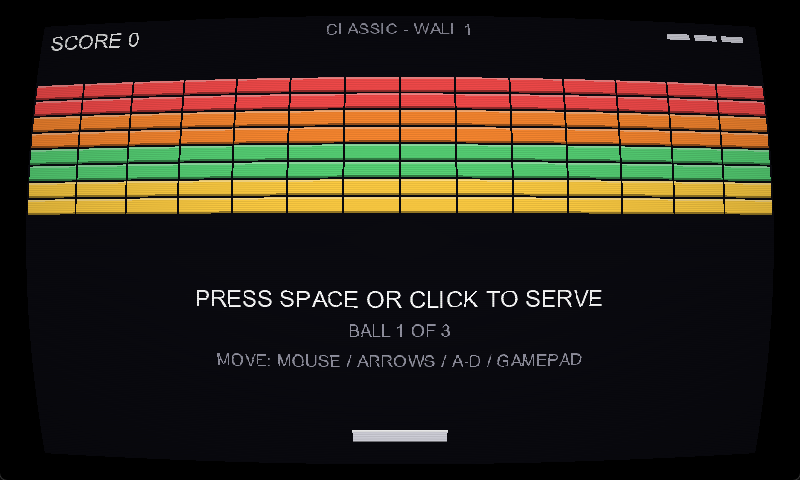
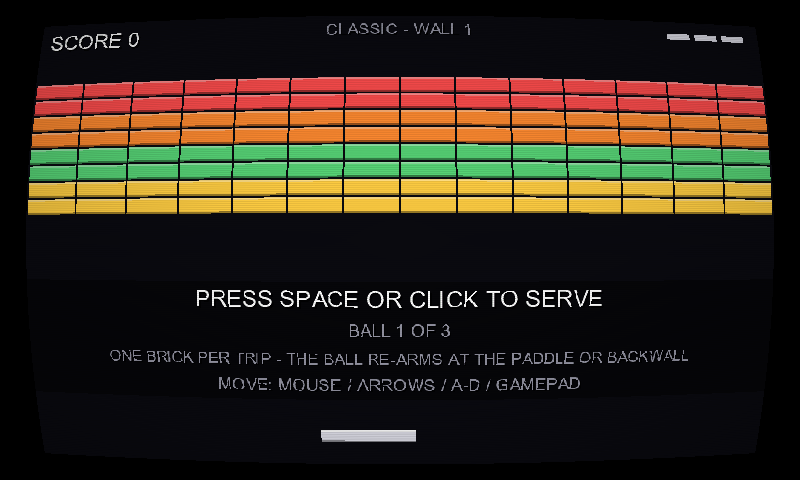
Screenshot rig: regenerate the doc images from the real game
dotnet run -- --screenshot <mode> <out.png> boots the requested mode,
waits three seconds for the entrance animation to settle, saves the
back buffer (CRT pass and all) as a PNG and exits. The README and
study-guide screenshots must track the real game, and the legibility
pass had made two of them stale - a doc image nobody can regenerate is
a doc fact nobody can check.

classic-1976.png and super-cavity.png now show the serve screens with
their rule cards and prompt strip; title.png picks up the text shadows.
The rig skips the focus-loss auto-pause (a CLI-launched window may
never focus) and is the only thing that parses argv.

Changed region(s): [[0.125, 0.7188, 0.8438, 0.8125], [0.5, 0.875, 0.5625, 0.9375], [0.4062, 0.875, 0.4375, 0.9375]]

diff --git a/docs/index.html b/docs/index.html
@@ -1197,7 +1197,8 @@ public void SpeedLevel_FollowsTheManualThresholds(
     │   ├── AudioBank.cs        <i>synthesized square-wave PCM, pitch-varied playback</i>
     │   ├── MusicPlayer.cs      <i>synthesized chip-tune loop on a SoundEffectInstance</i>
     │   ├── SpriteBatchExtensions.cs <i>1×1 pixel DrawRect + drop-shadowed text</i>
-    │   └── DebugOverlay.cs     <i>F3: fps, ball count + top speed, live counts</i>
+    │   ├── DebugOverlay.cs     <i>F3: fps, ball count + top speed, live counts</i>
+    │   └── ScreenshotRig.cs    <i>--screenshot CLI: capture one settled frame, exit</i>
     └── States/
         ├── GameState.cs        <i>abstract base: Enter/Update/Draw/FreezesEffects/CapturesAllInput</i>
         ├── GameStateManager.cs <i>current-state holder, resume, mode-aware new game, replay record/play</i>

diff --git a/Source/Systems/ScreenshotRig.cs b/Source/Systems/ScreenshotRig.cs
@@ -1,0 +1,94 @@
+using System;
+using System.IO;
+using Microsoft.Xna.Framework;
+using Microsoft.Xna.Framework.Graphics;
+
+namespace Breakout.Systems;
+
+/// <summary>
+/// Screenshot automation: `dotnet run -- --screenshot classic out.png` boots
+/// the game, starts the named mode, waits for the entrance animation to
+/// settle, saves one frame as a PNG and exits. It exists because the README
+/// and study-guide screenshots must track the real game — a doc image nobody
+/// can regenerate is a doc fact nobody can check. The capture happens at the
+/// very end of the pipeline (the back buffer, after the CRT pass), so the
+/// file shows exactly what a player sees. MonoGame has no "save screenshot"
+/// call; the idiom is GetBackBufferData into a Color[], SetData onto a
+/// throwaway Texture2D, and Texture2D.SaveAsPng — the read-back mirror of
+/// the 1x1-pixel trick.
+/// </summary>
+public sealed class ScreenshotRig
+{
+    // Three seconds at 60 Hz: enough for the brick drop-in (0.5 s plus its
+    // stagger) to land and the title's placeholder session to go quiet.
+    private const int SettleTicks = 180;
+
+    private readonly string _modeName;
+    private int _ticks;
+
+    public string OutputPath { get; }
+
+    /// <summary>True once the settle time has passed — the shell captures at
+    /// the end of its next Draw.</summary>
+    public bool CaptureDue { get; private set; }
+
+    private ScreenshotRig(string modeName, string outputPath)
+    {
+        _modeName = modeName;
+        OutputPath = outputPath;
+    }
+
+    /// <summary>Null when the args don't ask for a screenshot — the normal
+    /// game run. Program.cs calls this; nothing else parses argv.</summary>
+    public static ScreenshotRig TryParse(string[] args)
+    {
+        int flag = Array.IndexOf(args, "--screenshot");
+        if (flag < 0)
+            return null;
+        if (args.Length < flag + 3) // needs <mode> and <out.png> after the flag
+            throw new ArgumentException(
+                "usage: --screenshot <title|modern|coop|classic|double|cavity|progressive> <out.png>");
+        return new ScreenshotRig(args[flag + 1], args[flag + 2]);
+    }
+
+    /// <summary>The mode to boot into; null means stay on the title screen.</summary>
+    public GameMode? Mode => _modeName switch
+    {
+        "title" => null,
+        "modern" => GameMode.Modern,
+        "coop" => GameMode.Coop,
+        "classic" => GameMode.Classic,
+        "double" => GameMode.SuperDouble,
+        "cavity" => GameMode.SuperCavity,
+        "progressive" => GameMode.SuperProgressive,
+        _ => throw new ArgumentException($"unknown screenshot mode '{_modeName}'"),
+    };
+
+    /// <summary>Called once per Update tick.</summary>
+    public void Tick()
+    {
+        if (++_ticks >= SettleTicks)
+            CaptureDue = true;
+    }
+
+    /// <summary>Save the current back buffer and stop asking for captures.
+    /// Called after Present, so the CRT pass is in the pixels.</summary>
+    public void Capture(GraphicsDevice device)
+    {
+        CaptureDue = false;
+
+        int width = device.PresentationParameters.BackBufferWidth;
+        int height = device.PresentationParameters.BackBufferHeight;
+        var pixels = new Color[width * height];
+        device.GetBackBufferData(pixels);
+
+        using var texture = new Texture2D(device, width, height);
+        texture.SetData(pixels);
+
+        string directory = Path.GetDirectoryName(Path.GetFullPath(OutputPath));
+        if (!string.IsNullOrEmpty(directory))
+            Directory.CreateDirectory(directory);
+        using FileStream stream = File.Create(OutputPath);
+        texture.SaveAsPng(stream, width, height);
+    }
+}

diff --git a/BreakoutGame.cs b/BreakoutGame.cs
@@ -33,8 +33,11 @@ public class BreakoutGame : Game
     private Point _windowedSize = new(Screen.Width, Screen.Height);
     private bool _isResizing; // re-entrancy guard: ApplyChanges() re-fires ClientSizeChanged
 
-    public BreakoutGame()
+    private readonly ScreenshotRig _screenshotRig; // null on a normal run
+
+    public BreakoutGame(ScreenshotRig screenshotRig = null)
     {
+        _screenshotRig = screenshotRig;
         _graphics = new GraphicsDeviceManager(this);
 
         // In the constructor the GraphicsDevice doesn't exist yet, so these are
@@ -83,6 +86,11 @@ public class BreakoutGame : Game
         _virtualScreen.SetCrtEffect(Content.Load<Effect>("Shaders/Crt"));
 
         _states = new GameStateManager(_font);
+
+        // A screenshot run skips the title screen and boots straight into the
+        // requested mode's serve screen (null mode = stay on the title).
+        if (_screenshotRig?.Mode is GameMode mode)
+            _states.StartNewGame(mode);
     }
 
     protected override void Update(GameTime gameTime)
@@ -90,7 +98,9 @@ public class BreakoutGame : Game
         // Pause the simulation while the window is unfocused — MonoGame keeps
         // calling Update regardless, and nobody wants to lose a ball while
         // alt-tabbed. base.Update still runs for framework housekeeping.
-        if (!IsActive)
+        // A screenshot run skips the gate: launched from a terminal, the
+        // window may never receive focus, and a paused world can't settle.
+        if (!IsActive && _screenshotRig == null)
         {
             _states.NotifyFocusLost(); // a live game auto-pauses, see PauseState
             base.Update(gameTime);
@@ -123,6 +133,8 @@ public class BreakoutGame : Game
         float dt = (float)gameTime.ElapsedGameTime.TotalSeconds;
         _states.Update(dt, _input);
 
+        _screenshotRig?.Tick();
+
         base.Update(gameTime);
     }
 
@@ -144,6 +156,13 @@ public class BreakoutGame : Game
 
         // Pass 2: the render target onto the real back buffer, letterboxed.
         _virtualScreen.Present(_spriteBatch);
+
+        // After Present, so the CRT pass is in the captured pixels.
+        if (_screenshotRig?.CaptureDue == true)
+        {
+            _screenshotRig.Capture(GraphicsDevice);
+            Exit();
+        }
 
         base.Draw(gameTime);
     }

diff --git a/Program.cs b/Program.cs
@@ -1,2 +1,5 @@
-using var game = new Breakout.BreakoutGame();
+// `dotnet run` plays the game; `dotnet run -- --screenshot <mode> <out.png>`
+// boots it, captures one settled frame and exits (see ScreenshotRig).
+var rig = Breakout.Systems.ScreenshotRig.TryParse(args);
+using var game = new Breakout.BreakoutGame(rig);
 game.Run();

diff --git a/README.md b/README.md
@@ -176,7 +176,7 @@ Source/
                        collision, levels + board generator, classic 1976
                        rules + wall, super 1978 rules + walls, high scores,
                        virtual screen (+ CRT pass), particles, shake,
-                       audio synth + music, debug overlay
+                       audio synth + music, debug overlay, screenshot rig
   States/              GameState base + Title/Ready/Playing/ClassicReady/
                        ClassicPlaying/SuperReady/SuperPlaying (abstract,
                        + Double/Cavity/Progressive)/Pause/Rebind/LifeLost/
@@ -200,6 +200,9 @@ dotnet build                      # compile (content pipeline runs as part of th
 dotnet run                        # play
 dotnet test Tests/Breakout.Tests  # unit tests (the pure game logic)
 dotnet format                     # code style
+dotnet run -- --screenshot classic out.png   # boot a mode, save one settled frame, exit
+                                             # (how docs/media stays honest; also: title,
+                                             #  modern, coop, double, cavity, progressive)
 ```
 
 ## Tests
